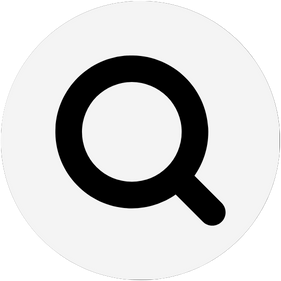
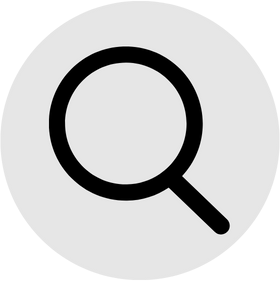
ทำปุ่ม payment ให้แล้วคับบบ

diff --git a/static/mystyle.css b/static/mystyle.css
@@ -1,3 +1,10 @@
+:root{
+    --main_color: rgb(0, 203, 195);
+    --main_color_light: #95DBD5;
+    /* #89d3cd */
+    --main_color_dark: rgb(59, 163, 182);
+    --main_font: "IBM Plex Sans Thai", sans-serif
+}
 html{
     margin: 0;
     padding: 0;
@@ -9,7 +16,7 @@ html{
     margin: 0px;
     text-align: center;
     padding: 3%;
-    background-color: rgb(59, 163, 182);
+    background-color: var(--main_color);
 }
 
 .menu_button{
@@ -33,7 +40,7 @@ html{
     color: White;
     text-align: center;
     padding: 3px;
-    background-color: rgb(98, 153, 177);
+    background-color: var(--main_color);
     margin-bottom: 1px;
     margin-right: 1px;
 }
@@ -54,6 +61,8 @@ html{
 
 .search_input {
     background-color: rgb(244, 244, 244);
+    font-size: 15px;
+    font-family: --main_font;
     width: 500px;
     height: 40px;
     padding: 10px;
@@ -64,44 +73,142 @@ html{
 
 }
 
+input { font-family: var(--main_font); }
+
 .WriteARead_image{
-    background-color: rgb(59, 163, 182);
+    background-color: var(--main_color);
     Width: 200px;
+    margin-top: 10px;
 }
 
 .top_banner{
-    background-color: rgb(59, 163, 182);
-    padding: 50px;
+    background-color: var(--main_color);
+    padding: 10px;
     text-align: center;
 }
-
-.search_banner{
-    background-color: rgb(59, 163, 182);
-    padding: 1px;
-    text-align: center;
-    overflow: hidden;
-}
-
 .writing_type{
     font-weight: 500;
+    font-size: 20px;
     color: rgb(255, 255, 255);
     display: inline-block;
     margin-left: 20px;
     margin-bottom: 0px;
+    margin-top: 10px;
     text-decoration:none ;
 }
+
+.writing_type:hover
+{
+    color: rgb(0, 0, 0);
+}
+
 
 #searchForm{
     /* display: inline-block; */
     text-align: center;
-    margin-top: -30px;
-    margin-bottom: 20px;
+    /* margin-top: 30px;
+    margin-bottom: -20px; */
 }
 
-.menu_banner{
-    background-color: rgb(59, 163, 182);
+.flexbox_menu{
+    background-color: var(--main_color);
+    display: flex;
+    flex-direction: row;
+    flex-wrap: nowrap;
+    justify-content: center;
+    align-items: center;
+    box-sizing: border-box;
+    margin: 0px 0px;
+    padding-top: 20px
 }
 
-.move_right{
-    margin-left: 20px
+.menu_banner_item{
+    background-color: var(--main_color);
+    color: White;
+    text-align: center;
+    box-sizing: border-box;
+    width: 33.33%;
+    margin-bottom: 0px;
+    padding: 0px 0px;
 }
+
+.ring_icon{
+    box-sizing: border-box;
+    margin-top: 7px;
+    margin-left: 5px;
+    width: 40px;
+    height: 40px;
+    cursor: pointer;
+
+    display: inline-block;
+    margin-left: 10px;
+    margin-bottom: 0px;
+    text-decoration:none
+}
+
+.pen_icon{
+    box-sizing: border-box;
+    margin-top: 7px;
+    margin-left: 5px;
+    width: 40px;
+    height: 40px;
+    cursor: pointer;
+
+    display: inline-block;
+    margin-left: 10px;
+    margin-bottom: 0px;
+    text-decoration:none
+}
+
+.user_icon{
+    box-sizing: border-box;
+    margin-top: 7px;
+    margin-left: 5px;
+    width: 40px;
+    height: 40px;
+    cursor: pointer;
+
+    display: inline-block;
+    margin-left: 10px;
+    margin-bottom: 0px;
+    text-decoration:none
+}
+
+
+.ring_icon:hover {
+    transform: scale(1.2);
+    content: url('../Templates/image/ring_button.png');
+}
+
+.pen_icon:hover {
+    transform: scale(1.2);
+    content: url('../Templates/image/writing_button.png');
+}
+
+.user_icon:hover {
+    transform: scale(1.2);
+    content: url('../Templates/image/user_button.png');
+}
+
+.center{
+    text-align: center;
+}
+
+.right{
+    text-align: right;
+}
+
+.banner{
+    background-color: var(--main_color);
+    Width: 40%;
+    margin-top: 10px;
+    border-radius: 20px;
+    overflow: hidden;
+}
+
+.top_up{
+    width: 9.5%;
+    margin-right: 10%;
+    min-width: 100px;
+}
+

diff --git a/Templates/index.html b/Templates/index.html
@@ -29,11 +29,22 @@
             <a class="menu_item" href="homepage.html">Home</a>
         </header> -->
 
-        <!-- <header class="menu_banner"> -->
-        <div class="menu_banner">
-            <h3 class="writing_type" style="margin-left: 40px;">นิยาย</h3> <h3 class="writing_type">แฟนฟิค</h3> <h3 class="writing_type">การ์ตูน</h3>
+        <div class="flexbox_menu">
+            <div class="menu_banner_item">
+                <a class="writing_type" href="#">นิยาย</a>
+                <a class="writing_type" href="#">แฟนฟิค</a>
+                <a class="writing_type" href="#">การ์ตูน</a>
+            </div>
+            <div class="menu_banner_item">
+                <a href="index.html"><img src="image/WriteARead_white.png" class="WriteARead_image"></a>
+            </div>
+            <div class="menu_banner_item">
+                <a href="#"> <img class="ring_icon" src="image/ring_button_light.png" alt="Original Image"></a>
+                <a href="#"> <img class="pen_icon" src="image/writing_button_light.png" alt=Original Image"></a>
+                <a href="#"> <img class="user_icon" src="image/user_button_light.png" alt=Original Image"></a>
+            </div>
         </div>
-            <!-- </header> -->
+
         <header class="top_banner">
             <form id="searchForm">
                 <div class="flexbox">
@@ -41,12 +52,22 @@
                         <input id="search_str" name="search_str" type="text" class="search_input" placeholder="ค้นหา" required>
                     </div>
                     <div class="search_item">
-                        <input class="search_button" type="image" src="image/search_button_bw.png" alt="Submit">
+                        <input class="search_button" type="image" src="image/search_button_light.png" alt="Submit">
                     </div>
                 </div>
             </form>
-            <a href="index.html"><img src="image/WriteARead_white.png" class="WriteARead_image"></a>
         </header>
+        <hr>
+        <div class="center">
+            <img class="banner" src="image/temp_banner1.png">
+            <img class="banner" src="image/temp_banner2.png">
+        </div>
+        <hr>
+
+        <div class="right">
+            <a href="payment.html"> <img class="top_up" src="image/buy_coin.png"></a>
+        </div>
+
 
         <ul id="search_result"></ul>
         <a href="payment.html">Payment</a>

diff --git a/Templates/payment.html b/Templates/payment.html
@@ -9,8 +9,8 @@
     <body>
         
         <header class="top_header"> 
-            <a class="menu_item brand" href="homepage.html">WriteARead</a>
-            <a class="menu_item" href="homepage.html">Home</a>
+            <a class="menu_item brand" href="index.html">WriteARead</a>
+            <a class="menu_item" href="index.html">Home</a>
         </header>
 
         <!-- <a class="button" href="homepage.html">Home</a> -->
